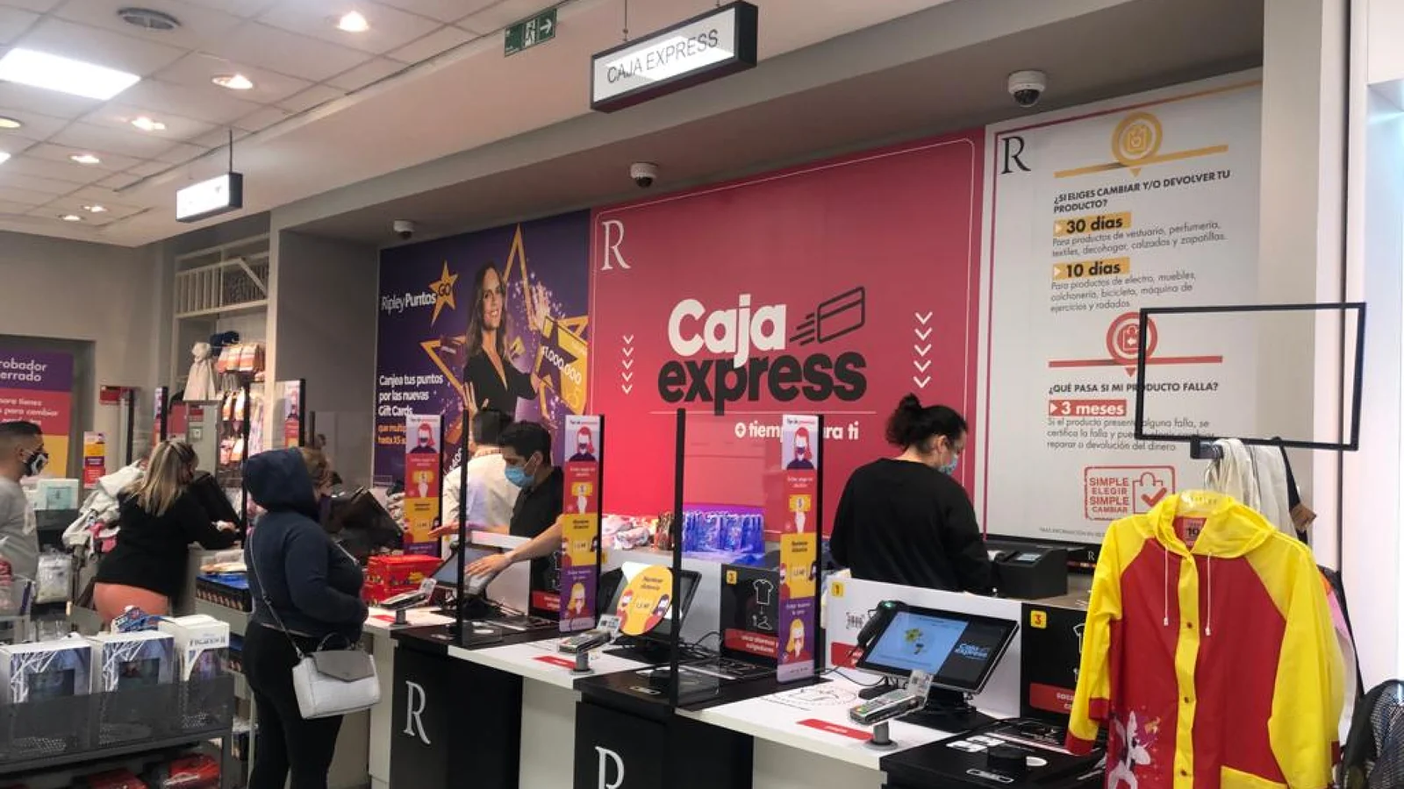
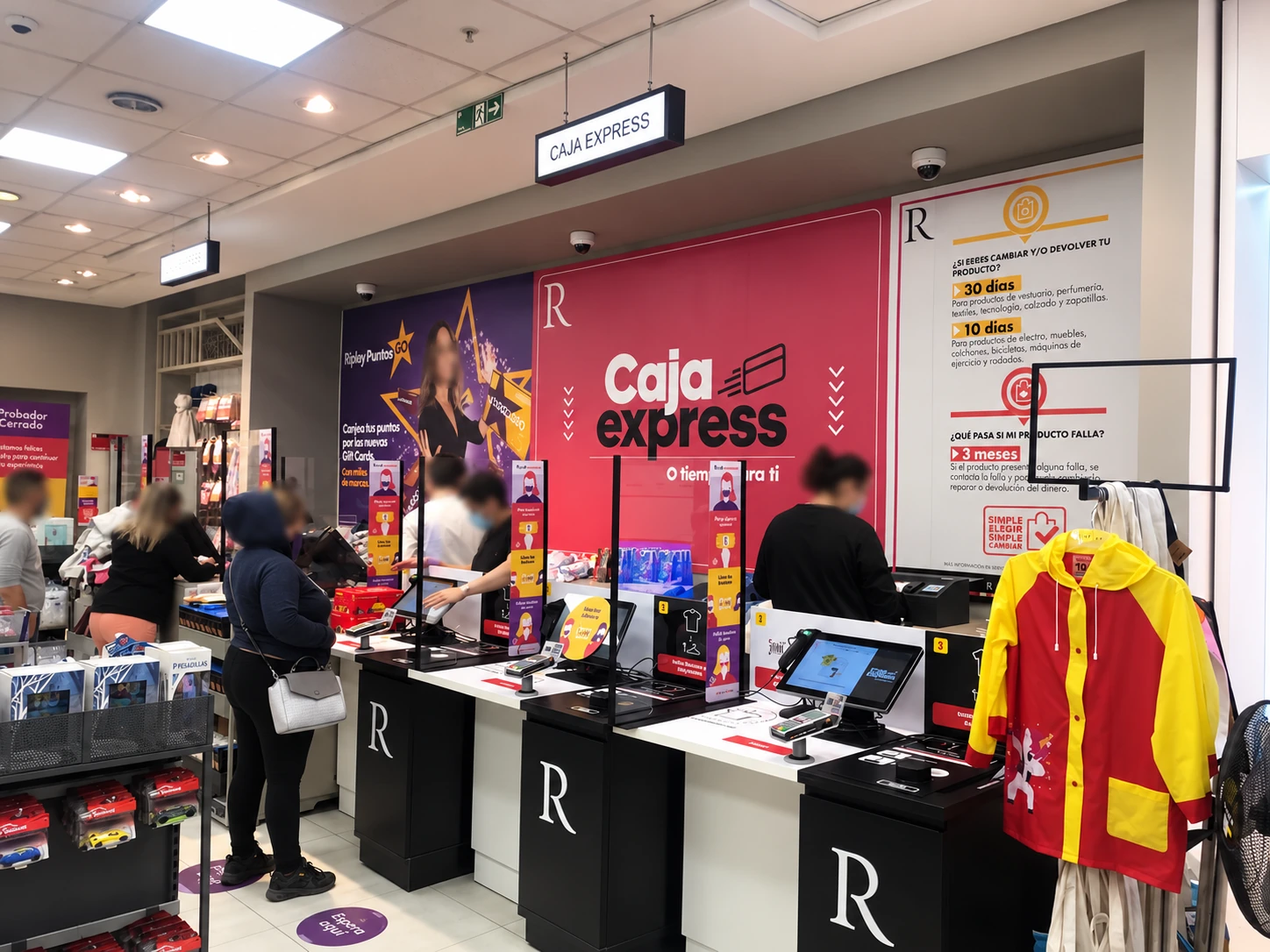
Add files via upload

diff --git a/index.html b/index.html
@@ -70,6 +70,7 @@
 @media(min-width:801px){.about>div:first-child{align-self:center}}
 .log>.log-row:first-child{border-top:0}
 .article-grid>.article-card:first-child{border-top:0}
+.article-grid>.article-card:nth-child(2){border-top:0}
 .mc-native-chart{border-top:0;border-bottom:0}
 .mc-native-chart>.mc-chart-head:first-child{border-top:0}
 .mc-native-chart>.mc-chart-row:last-child{border-bottom:0}
@@ -134,6 +135,8 @@
   .project-disabled:hover h3{transform:translateX(5px)}
   .project-disabled:hover .visual::after{border-width:3px}
 }
+/* Frame the installed counters lower in the image, keeping the furniture visible. */
+.project-caja .caja-cover .caja-implemented{object-position:center 82%!important}
 /* Caja Express deliberately uses a much slower prototype-to-production dissolve. */
 .caja-cover img{transition:opacity 2.4s cubic-bezier(.45,0,.55,1)!important}
 .project-caja:hover .caja-cover{transform:translateY(-4px)!important}
@@ -151,13 +154,34 @@
   .project .project-cover img{max-width:100%}
 }
 </style>
-</head><body><header class="site-header"><a class="brand" href="?" aria-label="Volver al inicio">Matías Palma</a><div class="nav-wrap"><nav aria-label="Navegación principal"><a href="?#work">Casos</a><a href="?#about">Experiencia</a><a href="?#contact">Contacto</a></nav><button aria-label="Cambiar a modo oscuro" aria-pressed="false" class="theme-toggle" id="themeToggle" type="button"><svg aria-hidden="true" class="sun" viewbox="0 0 24 24"><circle cx="12" cy="12" r="3.5"></circle><path d="M12 2.5v2M12 19.5v2M4.6 4.6 6 6M18 18l1.4 1.4M2.5 12h2M19.5 12h2M4.6 19.4 6 18M18 6l1.4-1.4"></path></svg><svg aria-hidden="true" class="moon" viewbox="0 0 24 24"><path d="M20 15.2A8.2 8.2 0 0 1 8.8 4a8.3 8.3 0 1 0 11.2 11.2Z"></path></svg></button></div></header><main class="home-page"><div class="w">
+<style id="caja-case-styles">.caja-case-hero{position:relative;padding:0;overflow:hidden;display:block;min-height:360px}.caja-case-hero img{display:block;width:100%;height:100%;min-height:360px;max-height:470px;object-fit:cover}.caja-hero-caption{position:absolute;left:20px;bottom:20px;background:rgba(17,17,15,.85);color:#fff;padding:9px 12px;font:10px "DM Mono",monospace;letter-spacing:.04em}.caja-figure{margin:26px 0}.caja-figure img{display:block;width:100%;max-height:560px;object-fit:contain;background:var(--surface)}.caja-figure figcaption{margin-top:10px;color:var(--muted);font-size:13px;line-height:1.5}@media(max-width:800px){.caja-case-hero,.caja-case-hero img{min-height:260px}}</style><style id="caja-native-observaciones">
+.caja-observaciones-grid{position:relative;display:grid;grid-template-columns:1fr 1fr;grid-template-rows:auto auto auto;column-gap:30px;row-gap:26px;padding:14px 0 8px;color:var(--ink)}
+.caja-observaciones-grid .caja-note{position:relative;z-index:2;margin:0;font-size:clamp(14px,1.65vw,18px);font-weight:550;line-height:1.48;color:var(--ink)}
+.caja-note-bolsas{grid-column:1;grid-row:1;max-width:340px}
+.caja-note-espacio{grid-column:2;grid-row:1;max-width:255px;justify-self:end}
+.caja-observaciones-photo{grid-column:1/-1;grid-row:2;width:84%;justify-self:center;position:relative;z-index:1}
+.caja-observaciones-photo img{width:100%;height:auto;max-height:none;object-fit:contain;display:block;border-radius:8px}
+.caja-note-herramientas{grid-column:2;grid-row:3;max-width:380px;justify-self:end}
+.caja-observaciones-connectors{position:absolute;inset:0;width:100%;height:100%;z-index:2;pointer-events:none;overflow:hidden;color:var(--ink)}
+.caja-observaciones-connectors path{fill:none;stroke:currentColor;stroke-width:3;stroke-dasharray:7 11;stroke-linecap:round;opacity:.95}
+.caja-observaciones-connectors circle{fill:var(--surface);stroke:currentColor;stroke-width:4}
+@media(max-width:650px){.caja-observaciones-grid{display:flex;flex-direction:column;gap:14px}.caja-observaciones-grid .caja-note{font-size:15px;max-width:none}.caja-observaciones-photo{width:100%;order:0}.caja-note-bolsas{order:1}.caja-note-espacio{order:2}.caja-note-herramientas{order:3}.caja-observaciones-connectors{display:none}.caja-observaciones-grid .caja-note:before{content:'•';margin-right:8px}}
+</style><style id="caja-implemented-framing">
+/* Mantener visible la parte inferior del mueble instalado. */
+.project-caja .caja-cover .caja-implemented{object-position:center bottom!important}
+/* La evidencia final se presenta completa, sin recorte vertical. */
+.log-row .caja-implemented-full{display:block;width:100%;height:auto;max-height:none;object-fit:contain;object-position:center bottom}
+</style><style id="project-brand-labels">
+.project-brand{display:block;margin-top:19px;font-family:"DM Mono",monospace;font-size:10px;font-weight:500;letter-spacing:.085em;color:var(--muted);text-transform:uppercase}
+.project .project-brand+h3{margin-top:7px}
+@media(max-width:650px){.project-brand{margin-top:15px;font-size:9px}}
+</style></head><body><header class="site-header"><a class="brand" href="?" aria-label="Volver al inicio">Matías Palma</a><div class="nav-wrap"><nav aria-label="Navegación principal"><a href="?#work">Casos</a><a href="?#about">Experiencia</a><a href="?#contact">Contacto</a></nav><button aria-label="Cambiar a modo oscuro" aria-pressed="false" class="theme-toggle" id="themeToggle" type="button"><svg aria-hidden="true" class="sun" viewbox="0 0 24 24"><circle cx="12" cy="12" r="3.5"></circle><path d="M12 2.5v2M12 19.5v2M4.6 4.6 6 6M18 18l1.4 1.4M2.5 12h2M19.5 12h2M4.6 19.4 6 18M18 6l1.4-1.4"></path></svg><svg aria-hidden="true" class="moon" viewbox="0 0 24 24"><path d="M20 15.2A8.2 8.2 0 0 1 8.8 4a8.3 8.3 0 1 0 11.2 11.2Z"></path></svg></button></div></header><main class="home-page"><div class="w">
 <section class="hero"><div class="hero-copy"><div class="kick">SENIOR PRODUCT DESIGNER · TEMUCO, CHILE</div><h1>Diseño productos digitales para la vida real.</h1><p>9 años diseñando experiencias digitales en retail, banca y e-commerce. Me especializo en journeys transaccionales —checkout, pagos y postcompra— conectando evidencia de usuarios, objetivos de negocio y viabilidad técnica.</p><div class="hero-actions"><a class="hero-cv" href="assets/CV-Matias-Palma-Senior-2026.pdf" target="_blank" rel="noopener noreferrer">Descargar CV ↗</a></div></div><aside class="hero-meta"><div><small>EXPERIENCIA</small><b>9 años de experiencia en UX · +5 años en Product Design</b></div><div><small>FOCO</small><b>Research · UX · interacción · experimentación · métricas</b></div><div><small>PRODUCTO</small><b>Web + App · journeys transaccionales end-to-end</b></div><div><small>TRABAJO</small><b>Producto · Tecnología · Negocio · stakeholders</b></div></aside></section>
 <section class="work" id="work"><div class="section-head"><h2>Trabajo seleccionado</h2><p>Cuatro proyectos que muestran los problemas que enfrentamos, las decisiones de diseño que tomé y los resultados que obtuvimos.</p></div><div class="projects">
-<a aria-label="Abrir caso Fast Checkout" class="project" href="?case=fast-checkout"><div class="visual project-cover"><img alt="Fast Checkout nuevo en primer plano y checkout anterior de Paris como contexto" src="assets/images/fast-checkout-cover.webp"/></div><h3>Fast Checkout</h3><p>Cómo pasamos de “hagámoslo como otros checkouts” a probar qué decisiones realmente ayudaban a comprar más rápido sin perder control.</p><span class="project-cta">Leer caso →</span></a>
-<a aria-label="Abrir caso Mis Compras" class="project" href="?case=mis-compras-jumbo"><div class="visual project-cover"><img alt="Mis Compras Jumbo en desktop y mobile" src="assets/images/mis-compras-cover.webp"/></div><h3>Mis Compras</h3><p>Una experiencia con SUS alto todavía escondía fallas críticas por tarea. Medir después del lanzamiento cambió el problema que estábamos resolviendo.</p><span class="project-cta">Leer caso →</span></a>
-<a aria-label="Ver presentación de Personas Paris en YouTube" class="project" href="https://www.youtube.com/watch?v=F1MN7k2sg1U" target="_blank" rel="noopener noreferrer"><div class="visual project-cover"><img alt="Cartas de Personas Paris sobre una mesa" src="assets/images/personas-paris-cover.webp"/></div><h3>Personas Paris</h3><p>El desafío no era producir otra ficha: era transformar datos existentes en conocimiento que pudiera aparecer en decisiones y conversaciones de producto.</p><span class="project-cta">Ver presentación en YouTube ↗</span></a>
-<article aria-label="Caja Express, caso en construcción" class="project project-caja project-disabled"><div class="visual project-cover caja-cover"><img class="caja-prototype" alt="Prototipo físico 1:1 de Caja Express construido en cartón" src="assets/images/caja-express-prototype.webp"/><img class="caja-implemented" alt="Caja Express implementada en una tienda Ripley" src="assets/images/caja-express-cover.webp"/></div><div class="project-title-row"><h3>Caja Express</h3><span class="project-tag">EN CONSTRUCCIÓN</span></div><p>Antes de fabricar el módulo definitivo, lo construimos y testeamos tres veces en cartón a escala 1:1 para descubrir problemas que el plano no mostraba.</p></article>
+<a aria-label="Abrir caso Fast Checkout" class="project" href="?case=fast-checkout"><div class="visual project-cover"><img alt="Fast Checkout nuevo en primer plano y checkout anterior de Paris como contexto" src="assets/images/fast-checkout-cover.webp"/></div><span class="project-brand">PARIS · CENCOSUD</span><h3>Fast Checkout</h3><p>Cómo pasamos de “hagámoslo como otros checkouts” a probar qué decisiones realmente ayudaban a comprar más rápido sin perder control.</p><span class="project-cta">Leer caso →</span></a>
+<a aria-label="Abrir caso Mis Compras" class="project" href="?case=mis-compras-jumbo"><div class="visual project-cover"><img alt="Mis Compras Jumbo en desktop y mobile" src="assets/images/mis-compras-cover.webp"/></div><span class="project-brand">JUMBO · CENCOSUD</span><h3>Mis Compras</h3><p>Una experiencia con SUS alto todavía escondía fallas críticas por tarea. Medir después del lanzamiento cambió el problema que estábamos resolviendo.</p><span class="project-cta">Leer caso →</span></a>
+<a aria-label="Ver presentación de Personas Paris en YouTube" class="project" href="https://www.youtube.com/watch?v=F1MN7k2sg1U" target="_blank" rel="noopener noreferrer"><div class="visual project-cover"><img alt="Cartas de Personas Paris sobre una mesa" src="assets/images/personas-paris-cover.webp"/></div><span class="project-brand">PARIS · CENCOSUD</span><h3>Personas basadas en datos</h3><p>El desafío no era producir otra ficha: era transformar datos existentes en conocimiento que pudiera aparecer en decisiones y conversaciones de producto.</p><span class="project-cta">Ver presentación en YouTube ↗</span></a>
+<a aria-label="Abrir caso Caja Express" class="project project-caja" href="?case=caja-express"><div class="visual project-cover caja-cover"><img class="caja-prototype" alt="Prototipo físico 1:1 de Caja Express construido en cartón" src="assets/images/caja-express-prototype.webp"/><img class="caja-implemented" alt="Caja Express implementada en una tienda Ripley" src="assets/images/caja-express-cover.webp"/></div><span class="project-brand">RIPLEY</span><h3>Caja Express</h3><p>Antes de fabricar el módulo definitivo, lo construimos y probamos tres veces en cartón a escala real. Cada versión reveló problemas que un plano no podía mostrar.</p><span class="project-cta">Leer caso →</span></a>
 </div></section>
 <section class="articles restored-articles" id="articles">
 <div class="articles-intro">
@@ -185,7 +209,7 @@
 <div class="log-row"><div class="log-label">04 · Decisión y trade-off</div><div class="log-body"><h2>Lo que hicimos después.</h2><p>Tabs vs bottom sheet dio 73% vs 38% de finalización, así que mantuvimos tabs. Más tarde Negocio pidió poner la entrega arriba, apoyándose en benchmarks externos. Propuse un A/B con tráfico real de Paris.</p><figure class="case-image"><img alt="Resultados de prueba de usabilidad comparando tabs y bottom sheet en Fast Checkout: 73% versus 38% de finalización." loading="lazy" src="assets/images/fast-checkout-tabs-vs-bottom-sheet.webp"/><figcaption><strong>Tabs vs. bottom sheet.</strong> En la prueba, tabs alcanzó 73% de finalización y 4,6/5 en facilidad de uso, frente a 38% y 3,4/5 del bottom sheet.</figcaption></figure></div></div>
 <div class="log-row"><div class="log-label">05 · Flujo implementado</div><div class="log-body"><h2>La experiencia final.</h2><p>El flujo consolidó las decisiones validadas durante el proyecto en una experiencia de compra rápida para clientes con datos guardados.</p><figure class="case-image case-gif"><img alt="Fast Checkout en funcionamiento" loading="lazy" src="assets/images/fast-checkout-flujo.gif"/><figcaption><strong>Fast Checkout en funcionamiento.</strong> Flujo de compra rápida con datos guardados.</figcaption></figure><div class="try-live"><strong>¿Quieres probar la experiencia?</strong><p>Fast Checkout está disponible en Paris.cl y Paris App. Desde una PDP, inicia sesión con una cuenta que tenga una tarjeta guardada y selecciona <strong>“Comprar ahora”</strong>. La disponibilidad puede depender de las condiciones de la cuenta y del producto.</p></div></div></div>
 <div class="log-row"><div class="log-label">06 · Impacto y resultados</div><div class="log-body"><h2>La experiencia llegó a producción con menos incertidumbre.</h2><p>Fast Checkout alcanzó <strong>90% de CES positivo</strong>, frente a <strong>80% en Billing</strong>: una diferencia observada de <strong>+10 puntos porcentuales</strong>. Lo presento como comparación entre experiencias, no como una atribución causal exclusiva al rediseño.</p><div class="result-grid"><div class="result-card"><strong>90%</strong><span>CES positivo · Fast Checkout</span></div><div class="result-card"><strong>80%</strong><span>CES positivo · Billing</span></div><div class="result-card"><strong>+10 pp</strong><span>diferencia observada</span></div></div><p>Durante la validación, la alternativa sin aviso inicial alcanzó <strong>90% de finalización</strong> y <strong>4,1/5 de claridad</strong>. En la decisión de interacción, tabs obtuvo <strong>73% de finalización y 4,6/5 de facilidad</strong>, frente a <strong>38% y 3,4/5</strong> del bottom sheet.</p><p>El A/B web corrió entre el 13 de abril y el 6 de mayo de 2026. La variante no ganó en ninguna métrica ni segmento, por lo que mantuvimos el orden original en vez de implementar un cambio sustentado solo en benchmarks. El flujo quedó instrumentado con <code>orderType=FastCheckout</code>.</p><div class="limit"><strong>LO QUE ESTOS DATOS NO DICEN</strong><br/>El 90% vs. 80% de CES es una comparación observada entre Fast Checkout y Billing; no prueba por sí sola que el diseño causó los +10 pp. El A/B solo corrió en web mientras la app concentraba ~91% de las sesiones y detectaba cambios de alrededor de 3 puntos. Tampoco tengo una comparación causal de conversión contra el checkout tradicional ni un dato aislado de compras con tarjeta guardada.</div></div></div></section>
-<div class="log-row"><div class="log-label">06 · Reflexión</div><div class="log-body"><h2>El resultado no tenía que validar nuestra idea.</h2><p>El valor del experimento fue reducir incertidumbre antes de convertir un benchmark en una decisión permanente. Cuando la variante no mostró una mejora consistente, mantuvimos el orden existente en vez de forzar una narrativa de éxito.</p><div class="decision-line"><span>EVIDENCIA</span><b>A/B sin ganador</b><i>→</i><span>DECISIÓN</span><b>Mantener el orden original</b></div></div></div><div class="case-next"><a class="back-home" href="?">← Volver al inicio</a><span class="mono">BITÁCORA · FAST CHECKOUT</span></div></div></article><article class="case-page" id="case-mis-compras-jumbo">
+<div class="log-row"><div class="log-label">06 · Reflexión</div><div class="log-body"><h2>El resultado no tenía que validar nuestra idea.</h2><p>El valor del experimento fue reducir incertidumbre antes de convertir un benchmark en una decisión permanente. Cuando la variante no mostró una mejora consistente, mantuvimos el orden existente en vez de forzar una narrativa de éxito.</p><div class="decision-line"><span>EVIDENCIA</span><b>A/B sin ganador</b><i>→</i><span>DECISIÓN</span><b>Mantener el orden original</b></div></div></div><div class="case-next"><a class="back-home" href="?">← Volver al inicio</a><span class="mono">FAST CHECKOUT</span></div></div></article><article class="case-page" id="case-mis-compras-jumbo">
 <div class="w"><header><a class="back-home" href="?">← Inicio</a><span class="mono">CENCOSUD · 2022–2024</span></header>
 <section class="case-top"><div><div class="case-kicker">CENCOSUD · 2022–2024</div><h1>Mis compras Jumbo</h1><p class="case-deck">Mis Compras parecía funcionar bien. Hasta que dejamos de mirar el promedio y medimos qué tan bien resolvía cada tarea de postcompra.</p><div class="case-meta"><div><small>MI ROL</small><b>Arquitectura, flujos, wireframes, pruebas, facilitación y medición</b></div><div><small>CON QUIÉNES</small><b>Self Service · Producto · UX/UI · CX · 9 equipos en facturación</b></div></div></div><div class="case-hero-evidence"><div class="evidence-hero"><small>POST-LANZAMIENTO</small><strong>SUS 86,5 ≠ tareas resueltas</strong><p>Una métrica global positiva convivía con 0% de éxito en una tarea crítica y 20% en otra.</p></div></div></section>
 <section class="log">
@@ -196,22 +220,21 @@
 <div class="log-row"><div class="log-label">05 · Seguimos midiendo</div><div class="log-body"><h2>Una decisión pequeña de arquitectura produjo una diferencia medible.</h2><p>En 2023 probamos sacar la boleta del menú kebab y hacerla más accesible. En Maze, la nueva versión mejoró en las cuatro señales que medimos: éxito, clics erróneos, tiempo y facilidad percibida.</p><div class="mc-native-chart" role="img" aria-label="Comparación de resultados de usabilidad para descargar la boleta entre la versión actual y la nueva versión"><div class="mc-chart-head"><span>Métrica</span><span>Actual</span><span>Nueva</span><span>Cambio</span></div><div class="mc-chart-row"><b>Éxito</b><span>85,7%</span><strong>96,9%</strong><em>+11,2 pp</em></div><div class="mc-chart-row"><b>Clics erróneos</b><span>50,9%</span><strong>8,3%</strong><em>−42,6 pp</em></div><div class="mc-chart-row"><b>Tiempo promedio</b><span>11,7 s</span><strong>8,8 s</strong><em>−2,9 s</em></div><div class="mc-chart-row"><b>Facilidad</b><span>4,2/5</span><strong>4,5/5</strong><em>+0,3</em></div></div><p class="mc-before-caption">Resultados del test de Maze. El gráfico resume los datos originales sin mostrar las capturas de la herramienta.</p><div class="turn"><b>La evidencia respaldó una decisión concreta: hacer visible la boleta fuera del menú redujo la búsqueda errónea y permitió completar la tarea con mayor éxito y en menos tiempo.</b></div></div></div>
 <div class="log-row"><div class="log-label">06 · Escala, resultados y límites</div><div class="log-body"><h2>La base terminó sirviendo a más de una marca.</h2><p>El trabajo de Self Service se extendió a otras marcas del ecosistema, entre ellas <strong>Paris, Easy y Santa Isabel</strong>. Más que una única pantalla, el proyecto dejó una base reutilizable para experiencias de postcompra con necesidades distintas.</p><div class="mc-brands"><figure class="mc-brand"><img alt="Mis Compras en Jumbo" loading="lazy" src="assets/images/mis-compras_marca-jumbo.png"/><figcaption>Jumbo</figcaption></figure><figure class="mc-brand"><img alt="Mis Compras en Easy" loading="lazy" src="assets/images/mis-compras_marca-easy.png"/><figcaption>Easy</figcaption></figure><figure class="mc-brand"><img alt="Mis Compras en Santa Isabel" loading="lazy" src="assets/images/mis-compras_marca-santaisabel.png"/><figcaption>Santa Isabel</figcaption></figure><figure class="mc-brand"><img alt="Mis Compras en Paris" loading="lazy" src="assets/images/mis-compras_marca-paris.png"/><figcaption>Paris</figcaption></figure></div><p class="mc-before-caption">Una misma base de experiencia adaptada a distintas marcas y contextos del ecosistema Cencosud.</p><div class="limit"><strong>LO QUE ESTOS DATOS NO DICEN</strong><br/>No tengo una medición posterior que permita afirmar que los cambios redujeron los 530 casos asociados a cobros. Tampoco atribuyo al rediseño variaciones de métricas durante Cyber o períodos con fallas del sitio. Los resultados de Maze sí respaldan la decisión específica sobre la boleta; no prueban por sí solos el impacto de todo el rediseño.</div></div></div>
 </section>
-<div class="log-row"><div class="log-label">07 · Reflexión</div><div class="log-body"><h2>Un buen promedio puede esconder una mala experiencia en la tarea que importa.</h2><p>El aprendizaje más útil no fue que Mis Compras obtuviera un SUS de 86,5, sino descubrir que esa cifra podía convivir con tareas críticas que prácticamente nadie resolvía. Desde entonces, medir dejó de ser un cierre del proceso: pasó a ser una forma de volver a definir el problema.</p><div class="decision-line"><span>SEÑAL GLOBAL</span><b>SUS 86,5</b><i>→</i><span>EVIDENCIA POR TAREA</span><b>0% y 20% de éxito</b><i>→</i><span>CAMBIO</span><b>Redefinir la postcompra alrededor de comprensión y tareas</b></div></div></div><div class="case-next"><a class="back-home" href="?">← Volver al inicio</a><span class="mono">BITÁCORA · MIS COMPRAS JUMBO</span></div></div></article><article class="case-page" id="case-personas-paris">
+<div class="log-row"><div class="log-label">07 · Reflexión</div><div class="log-body"><h2>Un buen promedio puede esconder una mala experiencia en la tarea que importa.</h2><p>El aprendizaje más útil no fue que Mis Compras obtuviera un SUS de 86,5, sino descubrir que esa cifra podía convivir con tareas críticas que prácticamente nadie resolvía. Desde entonces, medir dejó de ser un cierre del proceso: pasó a ser una forma de volver a definir el problema.</p><div class="decision-line"><span>SEÑAL GLOBAL</span><b>SUS 86,5</b><i>→</i><span>EVIDENCIA POR TAREA</span><b>0% y 20% de éxito</b><i>→</i><span>CAMBIO</span><b>Redefinir la postcompra alrededor de comprensión y tareas</b></div></div></div><div class="case-next"><a class="back-home" href="?">← Volver al inicio</a><span class="mono">MIS COMPRAS JUMBO</span></div></div></article><article class="case-page" id="case-personas-paris">
 <div class="w"><header><a class="back-home" href="?">← Inicio</a><span class="mono">PARIS · 2025</span></header>
-<section class="case-top"><div><div class="case-kicker">PARIS · 2025</div><h1>Personas Paris</h1><p class="case-deck">Cuando llegué a este proyecto, los segmentos ya existían. Lo que me preocupaba era algo mucho más simple: que después de todo ese trabajo terminaran guardados en una carpeta que nadie volviera a abrir.</p><div class="case-meta"><div><small>MI ROL</small><b>Concepto de cartas, cajines y cierre de la iniciativa</b></div><div><small>CON QUIÉNES</small><b>UX · CX · BI · UI · Advanced Analytics</b></div></div></div><div class="case-hero-evidence"><div class="evidence-hero"><small>SÍNTESIS</small><strong>3 personas · 9 subtipos</strong><p>Convertimos un modelo cuantitativo en un sistema de artefactos pensado para circular en conversaciones de producto.</p></div></div></section>
+<section class="case-top"><div><div class="case-kicker">PARIS · 2025</div><h1>Personas basadas en datos</h1><p class="case-deck">Cuando llegué a este proyecto, los segmentos ya existían. Lo que me preocupaba era algo mucho más simple: que después de todo ese trabajo terminaran guardados en una carpeta que nadie volviera a abrir.</p><div class="case-meta"><div><small>MI ROL</small><b>Concepto de cartas, cajines y cierre de la iniciativa</b></div><div><small>CON QUIÉNES</small><b>UX · CX · BI · UI · Advanced Analytics</b></div></div></div><div class="case-hero-evidence"><div class="evidence-hero"><small>SÍNTESIS</small><strong>3 personas · 9 subtipos</strong><p>Convertimos un modelo cuantitativo en un sistema de artefactos pensado para circular en conversaciones de producto.</p></div></div></section>
 <section class="log"><div class="log-row"><div class="log-label">01 · Problema</div><div class="log-body"><h2>Lo que estaba pasando.</h2><p>Las personas anteriores podían tardar meses en producirse y después quedaban archivadas. El nuevo modelo cuantitativo reducía el problema de construcción, pero el resultado seguía siendo una tabla y fichas.</p></div></div>
 <div class="log-row"><div class="log-label">02 · Hipótesis</div><div class="log-body"><h2>Lo que creíamos al principio.</h2><p>Mi hipótesis fue de circulación: si el conocimiento seguía viviendo como archivo, sería difícil incorporarlo a conversaciones de producto. Propuse convertir los nueve subtipos en cartas visibles, nombrables y comparables.</p><div class="image-slot"><span class="slot-id">IMAGEN PP-01</span><div><strong>Sistema de cartas de Personas Paris</strong><p>Foto/captura del sistema completo o 3–4 cartas representativas. Esta debería ser la imagen principal del caso.</p></div><code>personas-paris_01_cartas.png</code></div><div class="evidence-strip"><div class="evidence"><span class="n">EVIDENCIA</span><b>3 años</b><span>de datos usados por Advanced Analytics</span></div><div class="evidence"><span class="n">EVIDENCIA</span><b>733.942</b><span>clientes con datos completos, según presentación</span></div><div class="evidence"><span class="n">EVIDENCIA</span><b>3 + 9</b><span>personas y subtipos</span></div></div></div></div>
 <div class="log-row"><div class="log-label">03 · Evidencia que cambió la dirección</div><div class="log-body"><div class="turn"><b>La primera exploración fue dibujar personas. Después apareció una pregunta más propia de Paris: ¿por qué no usar a Cajín? También probé generaciones con IA; se sentían inquietantes y las descarté.</b></div></div></div>
 <div class="log-row"><div class="log-label">04 · Decisión y trade-off</div><div class="log-body"><h2>Lo que hicimos después.</h2><p>Las cartas conservaron sexo, generación, NSE y comportamientos de compra; la profundización siguió en fichas. El sistema se completó con guía de uso, casos de uso por equipo, presentación, quiz y SharePoint.</p></div></div>
 <div class="log-row"><div class="log-label">05 · Impacto, resultados y límites</div><div class="log-body"><h2>Qué cambió y qué pudimos demostrar.</h2><p>El cierre dejó 3 personas y 9 subtipos. La evidencia concreta de reutilización que sí puedo mostrar es Martina como protagonista del storyboard de Fast Checkout. El quiz tuvo 27 personas conectadas: participación, no adopción.</p><div class="image-slot"><span class="slot-id">IMAGEN PP-03</span><div><strong>Martina reutilizada en Fast Checkout</strong><p>Captura del storyboard de Fast Checkout donde Martina aparece. Esta imagen conecta los dos casos y demuestra reutilización concreta sin afirmar adopción general.</p></div><code>personas-paris_03_martina-fast-checkout.png</code></div><div class="limit"><strong>LO QUE ESTOS DATOS NO DICEN</strong><br/>No afirmo que las cartas se usen más que las fichas ni adopción por otros equipos sin evidencia. El modelo representa clientes frecuentes identificados y con datos completos; no fue validado cualitativamente.</div></div></div></section>
-<div class="log-row"><div class="log-label">06 · Reflexión</div><div class="log-body"><h2>Diseñar el artefacto no era suficiente.</h2><p>El desafío no era crear otra ficha de personas, sino aumentar las posibilidades de que el conocimiento apareciera en conversaciones reales de producto. Por eso el trabajo terminó incluyendo cartas, guía, casos de uso, presentación, quiz y un espacio compartido; y separé participación de adopción para no atribuir un impacto que no podía demostrar.</p><div class="decision-line"><span>SEÑAL REAL</span><b>Martina reutilizada en Fast Checkout</b><i>→</i><span>LÍMITE</span><b>No equivale a adopción general</b></div></div></div><div class="case-next"><a class="back-home" href="?">← Volver al inicio</a><span class="mono">BITÁCORA · PERSONAS PARIS</span></div></div></article><article class="case-page" id="case-caja-express">
-<div class="w"><header><a class="back-home" href="?">← Inicio</a><span class="mono">RIPLEY LABS · 2018–2019</span></header>
-<section class="case-top"><div><div class="case-kicker">RIPLEY LABS · 2018–2019</div><h1>Caja Express</h1><p class="case-deck">Había que rediseñar una caja de autoatención y eventualmente construirla en madera. Antes de hacer algo tan definitivo, se me ocurrió que era mejor probarla en cartón. Terminamos haciendo tres.</p><div class="case-meta"><div><small>MI ROL</small><b>Concepto, plan, maquetas, tests, plano, gráficas y UX/UI</b></div><div><small>CON QUIÉNES</small><b>Ripley Labs · Operaciones · Store Planning · Marketing</b></div></div></div><div class="case-hero-evidence"><div class="evidence-hero"><small>PROTOTIPADO FÍSICO</small><strong>3 iteraciones · escala 1:1</strong><p>El cartón permitió validar recorrido, ergonomía y ubicación de elementos antes de comprometer la fabricación definitiva.</p></div></div></section>
-<section class="log"><div class="log-row"><div class="log-label">01 · Problema</div><div class="log-body"><h2>Lo que estaba pasando.</h2><p>En el primer piloto la ropa tapaba herramientas; la gente no encontraba bolsas ni sabía dónde dejar alarmas y colgadores. Cuatro clientes nombraron sacar la alarma como lo más difícil.</p></div></div>
-<div class="log-row"><div class="log-label">02 · Hipótesis</div><div class="log-body"><h2>Lo que creíamos al principio.</h2><p>El problema no era solo la interfaz del POS. El mueble no acompañaba el recorrido físico de una compra autoasistida. Propuse rediseñarlo y probarlo a escala real antes de comprometer fabricación.</p><div class="evidence-strip"><div class="evidence"><span class="n">EVIDENCIA</span><b>8</b><span>usuarios en la segunda iteración</span></div><div class="evidence"><span class="n">EVIDENCIA</span><b>100/75/75/75/38%</b><span>finalización de cinco tareas</span></div><div class="evidence"><span class="n">EVIDENCIA</span><b>10</b><span>usuarios en la tercera iteración</span></div></div></div></div>
-<div class="log-row"><div class="log-label">03 · Evidencia que cambió la dirección</div><div class="log-body"><div class="turn"><b>En la segunda maqueta el monitor estaba a la izquierda y los pasos juntos. La finalización caía hasta 38% al sacar una bolsa. Centrar el monitor obligó a romper el panel único: repartí las instrucciones donde ocurría cada acción.</b></div></div></div>
-<div class="log-row"><div class="log-label">04 · Decisión y trade-off</div><div class="log-body"><h2>Lo que hicimos después.</h2><p>Operaciones intervino en cada iteración: bajar altura, sumar repisa para bolsas, ocultar cables y ajustar alarmas. Después dibujé el plano técnico y pasamos a madera. Ahí apareció algo que el cartón no reveló: faltaban impresora y salida de boleta.</p></div></div>
-<div class="log-row"><div class="log-label">05 · Impacto, resultados y límites</div><div class="log-body"><h2>Qué cambió y qué pudimos demostrar.</h2><p>La tercera iteración estabilizó la finalización alrededor de 90–100% según el borrador. El módulo pasó de un piloto en Costanera Center a cuatro sucursales documentadas en agosto de 2019 y después, según el jefe de proyecto, a la mayoría de las tiendas. Recibí un Reconocimiento Ripley.</p><div class="limit"><strong>LO QUE ESTOS DATOS NO DICEN</strong><br>No tengo medición antes/después en tienda para afirmar que el rediseño redujo tiempos o aumentó ventas. Tampoco atribuyo al diseño cifras posteriores de transacciones. El cartón validó recorrido y ergonomía; no hardware.</div></div></div></section>
-<div class="log-row"><div class="log-label">06 · Reflexión</div><div class="log-body"><h2>El prototipo tenía que responder preguntas antes que parecer terminado.</h2><p>Construir en cartón a escala 1:1 permitió poner el recorrido físico frente a usuarios y Operaciones cuando cambiar todavía era barato. Cada iteración convirtió observaciones concretas —altura, ubicación del monitor, bolsas, alarmas y cableado— en decisiones antes de fabricar el módulo definitivo.</p><div class="decision-line"><span>EVIDENCIA</span><b>3 iteraciones 1:1 + pruebas con usuarios</b><i>→</i><span>DECISIÓN</span><b>Fabricar después de estabilizar recorrido y ergonomía</b></div></div></div>
-<div class="case-next"><a class="back-home" href="?">← Volver al inicio</a><span class="mono">BITÁCORA · CAJA EXPRESS</span></div></div></article><script>(function(){const root=document.documentElement;const btn=()=>document.getElementById('themeToggle');const saved=localStorage.getItem('mati-theme');const initial=saved||'dark';function apply(theme){root.dataset.theme=theme;const b=btn();if(b){const dark=theme==='dark';b.setAttribute('aria-pressed',String(dark));b.setAttribute('aria-label',dark?'Cambiar a modo claro':'Cambiar a modo oscuro')}}apply(initial);document.addEventListener('click',e=>{if(e.target.closest('#themeToggle')){const next=root.dataset.theme==='dark'?'light':'dark';apply(next);localStorage.setItem('mati-theme',next)}})})();(function(){const params=new URLSearchParams(window.location.search);const id=params.get('case');if(id){document.body.classList.add('case-open');document.querySelectorAll('.case-page').forEach(x=>x.classList.remove('active'));const el=document.getElementById('case-'+id);if(el){el.classList.add('active')}else{document.body.classList.remove('case-open')}}})();</script>
+<div class="log-row"><div class="log-label">06 · Reflexión</div><div class="log-body"><h2>Diseñar el artefacto no era suficiente.</h2><p>El desafío no era crear otra ficha de personas, sino aumentar las posibilidades de que el conocimiento apareciera en conversaciones reales de producto. Por eso el trabajo terminó incluyendo cartas, guía, casos de uso, presentación, quiz y un espacio compartido; y separé participación de adopción para no atribuir un impacto que no podía demostrar.</p><div class="decision-line"><span>SEÑAL REAL</span><b>Martina reutilizada en Fast Checkout</b><i>→</i><span>LÍMITE</span><b>No equivale a adopción general</b></div></div></div><div class="case-next"><a class="back-home" href="?">← Volver al inicio</a><span class="mono">PERSONAS PARIS</span></div></div></article><article class="case-page" id="case-caja-express"><div class="w"><header><a class="back-home" href="?">← Inicio</a><span class="mono">RIPLEY LABS · 2018–2019</span></header>
+<section class="case-top"><div><div class="case-kicker">RIPLEY LABS · 2018–2019</div><h1>Caja Express</h1><p class="case-deck">Antes de fabricar una caja de autoatención, necesitábamos saber si las personas podían usarla. En lugar de validar solo pantallas o planos, construimos tres prototipos de cartón a escala 1:1.</p><div class="case-meta"><div><small>MI CONTRIBUCIÓN</small><b>Concepto, planificación, maquetas, pruebas, planos, gráficas y UX/UI</b></div><div><small>TRABAJO CON</small><b>Ripley Labs · Operaciones · Store Planning · Marketing</b></div></div></div><div class="case-hero-evidence caja-case-hero"><img src="assets/images/caja-express-prototype.webp" alt="Prototipo de cartón de Caja Express a escala real"/><div class="caja-hero-caption">PROTOTIPADO FÍSICO · 3 ITERACIONES A ESCALA 1:1</div></div></section>
+<section class="log"><div class="log-row"><div class="log-label">01 · El problema</div><div class="log-body"><h2>La compra no terminaba en la pantalla.</h2><p>Una caja de autoatención exige más que seguir instrucciones en un POS: hay que manipular prendas, retirar alarmas, encontrar bolsas, disponer colgadores y completar el pago. Al evaluar el primer prototipo desarrollado por Store Planning, observamos fricciones físicas: la ropa tapaba herramientas, las bolsas no se encontraban fácilmente y no estaba claro dónde dejar alarmas y colgadores.</p><figure class="caja-figure caja-observaciones"><div class="caja-observaciones-grid"><p class="caja-note caja-note-bolsas">Las personas no identificaban dónde estaban las bolsas ni dónde dejar alarmas y colgadores.</p><p class="caja-note caja-note-espacio">Había poco espacio para apoyar la ropa.</p><div class="caja-observaciones-photo"><img loading="lazy" src="assets/images/caja-express-store-planning-rostros-difuminados.png" alt="Primer prototipo de Store Planning en tienda, con prendas apoyadas sobre el módulo y rostros difuminados"/><svg class="caja-observaciones-connectors" viewBox="0 0 1672 941" preserveAspectRatio="xMidYMid meet" aria-hidden="true"><path d="M410 0 L520 140 L830 365"/><circle cx="830" cy="365" r="11"/><path d="M1500 0 L1410 160 L1050 485"/><circle cx="1050" cy="485" r="11"/><path d="M1430 941 L1330 780 L1115 408"/><circle cx="1115" cy="408" r="11"/></svg></div><p class="caja-note caja-note-herramientas">La ropa tapaba el detector de alarmas, el sacapiochas y el lector de precios.</p></div><figcaption>Primer prototipo desarrollado por Store Planning. Observaciones de uso identificadas durante su evaluación.</figcaption></figure><p><strong>Cuatro clientes señalaron retirar la alarma como la parte más difícil.</strong> Esa observación cambió el foco: el problema no era únicamente la interfaz, sino cómo el mobiliario acompañaba la secuencia completa de acciones.</p><div class="turn"><b>Pregunta de diseño: ¿cómo organizar pantalla, herramientas y superficies para que una persona pudiera completar la compra sin perderse ni estorbarse a sí misma?</b></div></div></div>
+<div class="log-row"><div class="log-label">02 · La apuesta</div><div class="log-body"><h2>Probar a escala real antes de fabricar.</h2><p>El destino era un mueble definitivo de madera. Pero decidir su forma desde un plano habría dejado sin validar aspectos esenciales: alturas, alcances, ubicación de las herramientas y espacio para manipular productos.</p><p>Propuse construir maquetas de cartón a escala 1:1. No buscábamos un acabado convincente: queríamos observar acciones reales, equivocarnos pronto y modificar el diseño sin comprometer todavía la fabricación.</p><figure class="caja-figure"><img loading="lazy" src="assets/images/caja-express-prototype.webp" alt="Maqueta de cartón a escala real de Caja Express"/><figcaption>El prototipo físico permitió poner a prueba la relación entre el cuerpo, las prendas, las herramientas y el mueble.</figcaption></figure></div></div>
+<div class="log-row"><div class="log-label">03 · Evidencia y giro</div><div class="log-body"><h2>La segunda maqueta reveló que la disposición seguía fallando.</h2><p>En la segunda iteración probamos con <strong>8 personas</strong>. La finalización de las cinco tareas evaluadas fue de <strong>100%, 75%, 75%, 75% y 38%</strong>, respectivamente. El punto más débil fue sacar una bolsa: una acción aparentemente menor que interrumpía el recorrido.</p><div class="evidence-strip"><div class="evidence"><span class="n">PRUEBA</span><b>8</b><span>participantes en la segunda iteración</span></div><div class="evidence"><span class="n">TAREA MÁS DÉBIL</span><b>38%</b><span>finalización al sacar una bolsa</span></div><div class="evidence"><span class="n">SIGUIENTE PRUEBA</span><b>10</b><span>participantes en la tercera iteración</span></div></div><p>La pantalla estaba a la izquierda y las instrucciones se concentraban en un único panel. Al revisar el recorrido decidí centrar el monitor y distribuir las indicaciones cerca de cada acción.</p><div class="turn"><b>La decisión no fue añadir más instrucciones: fue acercarlas al lugar donde se necesitaban. Eso implicó abandonar la idea de un único panel informativo.</b></div><figure class="caja-figure"><img loading="lazy" src="assets/images/caja-express-iteracion-02.webp" alt="Maqueta de cartón de Caja Express en la oficina durante las iteraciones de diseño"/><figcaption>Maqueta física durante el proceso de iteración: la disposición del monitor, las superficies y el espacio de trabajo se evaluaron a escala real.</figcaption></figure></div></div>
+<div class="log-row"><div class="log-label">04 · Decisiones de diseño</div><div class="log-body"><h2>El mueble cambió junto con la operación.</h2><p>Con Operaciones revisamos cada versión: bajamos la altura, incorporamos una repisa para bolsas, reconsideramos el espacio para alarmas y colgadores y buscamos ocultar cables. Las decisiones de experiencia afectaban la forma física del módulo, no solo sus gráficas.</p><p>Tras la tercera iteración preparé los planos para pasar a madera. Ahí apareció un límite del método: <strong>la maqueta había servido para validar recorrido y ergonomía, pero no todos los requerimientos de hardware</strong>. Fue necesario resolver la ubicación de la impresora y la salida de la boleta.</p><div class="decision-line"><span>PRIORIZAMOS</span><b>Uso real, alcance y claridad por acción</b><i>→</i><span>DECISIÓN</span><b>No cerrar el diseño antes de probarlo a escala real</b></div><div class="caja-decision-originals" aria-label="Evidencia visual original del diseño de Caja Express"><h3>Del prototipo a las especificaciones de fabricación</h3><figure class="caja-figure"><img loading="lazy" src="assets/images/caja-express-prototipo-instrucciones-original.png" alt="Fotografía original del prototipo de cartón de Caja Express con pantalla y señalética de escaneo, pago y verificación" style="width:100%;height:auto;object-fit:contain;display:block"/><figcaption>Prototipo físico con pantalla y señalética de las acciones: escanear, pagar y verificar.</figcaption></figure><figure class="caja-figure"><img loading="lazy" src="assets/images/caja-express-plano-tecnico-original.png" alt="Plano técnico original de Caja Express con vistas de planta, frente, laterales, posterior e inferior, fechado el 11 de febrero de 2019" style="width:100%;height:auto;object-fit:contain;display:block"/><figcaption>Plano técnico del mobiliario, 11 de febrero de 2019.</figcaption></figure></div></div></div>
+<div class="log-row"><div class="log-label">05 · Resultado y límites</div><div class="log-body"><h2>De tres prototipos a una caja instalada en tiendas.</h2><p>La tercera prueba, realizada con <strong>10 personas</strong>, mostró una finalización de tareas en torno al <strong>90–100%</strong> en los registros disponibles. Después de ajustar el diseño y preparar los planos, el módulo llegó a producción.</p><figure class="caja-figure"><img class="caja-implemented-full" loading="lazy" src="assets/images/caja-express-cover.webp" alt="Caja Express instalada en una tienda Ripley"/><figcaption>Caja Express implementada en tienda: el paso desde la maqueta de cartón al mobiliario definitivo.</figcaption></figure><p>La implementación pasó del piloto en Costanera Center a <strong>cuatro sucursales documentadas en agosto de 2019</strong>. Posteriormente, según el jefe de proyecto, se extendió a la mayoría de las tiendas Ripley. El proyecto recibió un reconocimiento interno de Ripley.</p><div class="limit"><strong>LO QUE NO PUEDO AFIRMAR</strong><br/>No cuento con una medición comparable antes y después en tiendas que permita atribuir al rediseño menores tiempos de atención, mayores ventas o más transacciones. Las pruebas respaldan mejoras en la realización de tareas dentro del prototipo; no demuestran por sí solas un impacto comercial. La expansión posterior se reporta como antecedente de implementación, no como una métrica de usabilidad.</div></div></div>
+<div class="log-row"><div class="log-label">06 · Lo que aprendí</div><div class="log-body"><h2>Los prototipos de cartón permitieron validar el diseño antes de fabricarlo.</h2><p>El cartón no reproducía el acabado de una caja definitiva, pero sí las distancias, alturas y movimientos que necesitábamos evaluar. Fue suficiente para revelar errores antes de fabricar y para tomar decisiones junto a quienes operarían el módulo.</p><p>También aprendí dónde terminaba esa validación: una maqueta física puede responder preguntas sobre ergonomía y flujo, pero necesita complementarse con revisión técnica para anticipar impresoras, cableado y otros componentes reales.</p><div class="decision-line"><span>APRENDIZAJE</span><b>Probar el recorrido completo</b><i>→</i><span>PRINCIPIO</span><b>Elegir el prototipo según la incertidumbre que hay que resolver</b></div></div></div></section>
+<div class="case-next"><a class="back-home" href="?">← Volver al inicio</a><span class="mono">CAJA EXPRESS</span></div></div></article><script>(function(){const root=document.documentElement;const btn=()=>document.getElementById('themeToggle');const saved=localStorage.getItem('mati-theme');const initial=saved||'dark';function apply(theme){root.dataset.theme=theme;const b=btn();if(b){const dark=theme==='dark';b.setAttribute('aria-pressed',String(dark));b.setAttribute('aria-label',dark?'Cambiar a modo claro':'Cambiar a modo oscuro')}}apply(initial);document.addEventListener('click',e=>{if(e.target.closest('#themeToggle')){const next=root.dataset.theme==='dark'?'light':'dark';apply(next);localStorage.setItem('mati-theme',next)}})})();(function(){const params=new URLSearchParams(window.location.search);const id=params.get('case');if(id){document.body.classList.add('case-open');document.querySelectorAll('.case-page').forEach(x=>x.classList.remove('active'));const el=document.getElementById('case-'+id);if(el){el.classList.add('active')}else{document.body.classList.remove('case-open')}}})();</script>
 </body></html>
